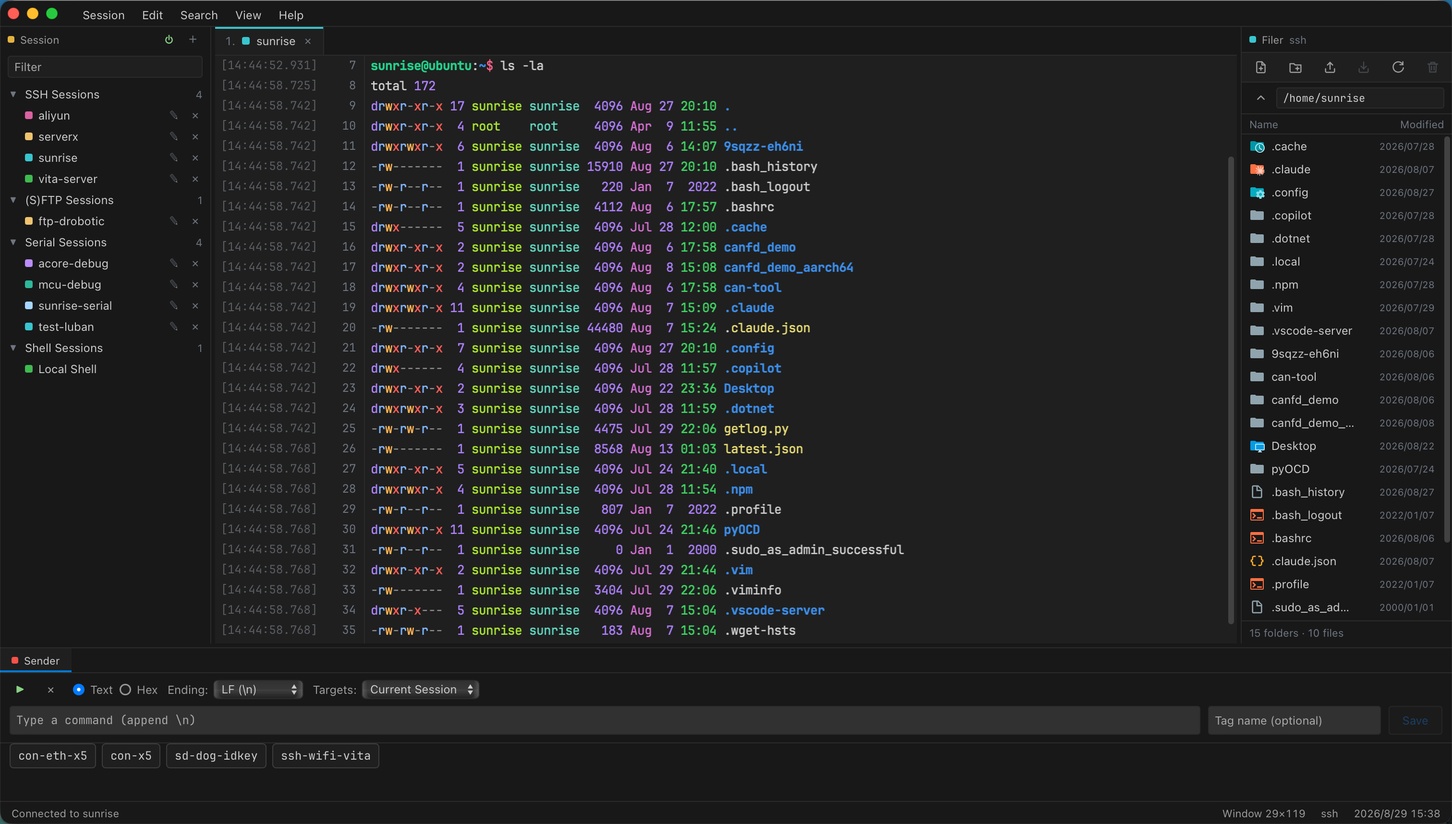
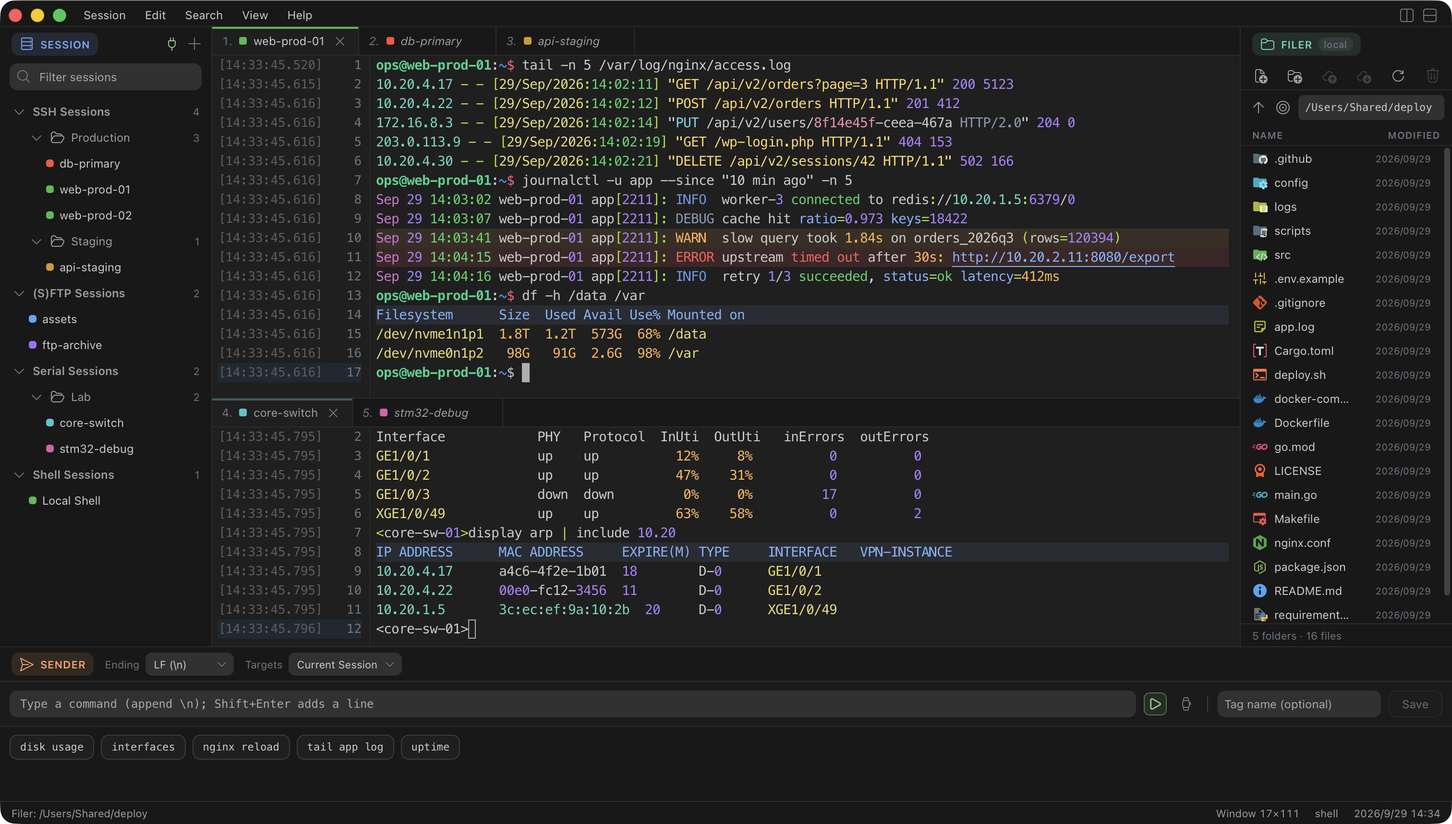
docs: slim the READMEs down to features and usage, refresh screenshots
The READMEs now cover what EdgeTerm does, how to install it, a short
getting-started and the shortcut table; behavior details moved out of
them. The dark / light screenshots show the default themes with split
panes, semantic coloring of logs and switch output, grouped sessions,
the Filer and saved Sender commands.

diff --git a/README.md b/README.md
@@ -7,127 +7,66 @@
 
 [English](README.md) | [简体中文](README.zh-CN.md)
 
-A small, lightweight, high-performance terminal, SSH, SFTP, FTP, and serial client, built with **Rust + Tauri**.
+A small, fast terminal, SSH, SFTP, FTP and serial client built with **Rust + Tauri**. Installers are about 4–5 MB.
 
-<img src="docs/screenshot-dark.png" alt="EdgeTerm dark theme" width="100%">
+<img src="docs/screenshot-dark.png" alt="EdgeTerm dark theme: split panes, colored log and switch output, Session tree, Filer and Sender" width="100%">
 
-<img src="docs/screenshot-light.png" alt="EdgeTerm light theme" width="100%">
-
-## Small and lightweight
-
-| Package (v0.4.1) | Download size |
-| --- | --- |
-| Windows x64 installer (`.exe`) | **3.9 MB** |
-| macOS Apple Silicon (`.dmg`) | **4.7 MB** |
-| Linux `.deb` (x64 / ARM64) | **5.3 MB** / **5.2 MB** |
+<img src="docs/screenshot-light.png" alt="EdgeTerm light theme: the same workspace" width="100%">
 
 ## Features
 
-**Session types**
+- **Sessions**: local shell, SSH, SFTP, FTP and serial port, saved in a grouped tree you can filter, duplicate and import from `~/.ssh/config`.
+- **SSH**: password, public key, ssh-agent and keyboard-interactive (MFA / one-time codes), jump hosts, and older network gear that only speaks legacy algorithms.
+- **Readable output**: a timestamp and line-number gutter, and semantic coloring of IPs, URLs, log levels, HTTP methods, paths, sizes and more.
+- **Split panes and tabs**: split right or down, drag tabs between panes, and see at a glance which background tab is busy or done.
+- **Filer**: browse over SFTP, FTP or the local disk, with drag and drop to and from your desktop.
+- **Sender**: saved commands and multi-line scripts, sent to one session or all of them, optionally on a timer.
+- **File transfer in the terminal**: ZMODEM (`rz` / `sz`) and XMODEM.
+- **Everyday details**: themes, fonts and cursor style, custom encodings and locale, session recording, Copy on Select, a warning before multi-line pastes, rebindable shortcuts, and export / import of all settings.
 
-| Type | Backend | Description |
-| --- | --- | --- |
-| Local shell | `portable-pty` | A real pseudoterminal with synchronized window resizing; the Shell field takes a command line with arguments, such as `wsl.exe -d Ubuntu` or `pwsh -NoLogo`. On macOS a bare shell starts as a login shell, the way Terminal.app starts it, so `~/.zprofile` and Homebrew's PATH are in place before `~/.zshrc` runs; a command line with arguments runs exactly as written |
-| SSH | `russh` + `russh-sftp` | Password, public-key, and ssh-agent authentication, followed by keyboard-interactive rounds where the server asks for a second factor (a one-time code, a push confirmation); jump hosts (ProxyJump) through another saved session, chained if needed; SFTP reuses the same connection with streaming file and folder transfers |
-| SFTP | `russh` + `russh-sftp` | A file-transfer-only session over SSH — same authentication and host-key policy, opened straight into the dual-pane file manager with no terminal |
-| FTP | `suppaftp` | Password or anonymous authentication; passive-mode browsing, UTF-8/GBK filename decoding, and streaming file and folder transfers in both directions |
-| Serial | `serialport` | Configurable baud rate, data bits, stop bits, parity, and flow control |
+## Install
 
-**Older SSH servers**
-
-Switches, routers, firewalls and other long-lived devices often run SSH servers that stop at algorithms modern clients no longer offer. EdgeTerm still connects to them: besides the NIST ECDH curves (`ecdh-sha2-nistp256/384/521`), it offers the SHA-1 key exchanges `diffie-hellman-group14-sha1`, `diffie-hellman-group-exchange-sha1` and `diffie-hellman-group1-sha1`, the `aes128/192/256-cbc` ciphers and the `hmac-sha1` MACs, with no setting to change. They come after every modern algorithm, so a server that supports anything better gets that, and because both sides' algorithm lists are signed by the server's host key, nobody in between can strip the better choices to force the old ones. A session that did need one shows **Legacy SSH** in the status bar; hover over it to see which server and which algorithms. A server that offers nothing EdgeTerm supports (only `ssh-dss` host keys, `3des-cbc` or `hmac-md5`, say) is refused with the list it offered.
-
-**Text encoding and locale**
-
-Terminal sessions are UTF-8 unless the session dialog's **Encoding** says otherwise: a server or device that talks GB18030 / GBK, Big5, Shift_JIS, EUC-JP, EUC-KR or a Windows / KOI8 code page has its output decoded for the terminal and typed input encoded for the far end, while ZMODEM and XMODEM transfers stay binary. What a shell prints for a non-ASCII file name is decided by *its* locale, not by the terminal — `$'\346\226\207'`-style escapes from `ls` mean the shell's locale is not UTF-8 — so a local shell started with no locale in its environment (every GUI application on macOS) is given a UTF-8 `LANG`, and the dialog's **Locale** field sets `LANG` explicitly: for an SSH session it is sent with the shell request and applied by servers whose `sshd_config` has `AcceptEnv LANG`.
-
-**Session recording**
-
-Any terminal session — shell, SSH or serial — can be recorded to a file: tick **Record this session's output to a file** in the session dialog (it is off unless you turn it on) and every connection of that session writes a new file, `<name>_<date>_<time>.log`, to the folder you choose or to *EdgeTerm Recordings* in your Documents (a portable copy uses `data/recordings`). The file is the raw output the terminal received, escape sequences included, between a header and a trailer line naming the session and the times, so `cat` replays it in a terminal; what you typed appears only as the far end echoed it, so a password entered without echo is not in it. While a recording runs the status bar shows **REC**; click it to open the folder. The file is written as output arrives and closes with the session. If it cannot be created the connection fails with the reason rather than running unrecorded, and if the disk fails later the session carries on and the status bar says the recording stopped.
-
-**Interface**
-- **Timestamp and line-number gutter** — WindTerm's most recognizable feature. Every output line includes `[HH:MM:SS.SSS]` and a cumulative line number, with the cursor line highlighted. Four display modes are available from the `Session` menu.
-- **Session** (left): saved connection profiles in a collapsible tree; double-click to connect. Right-click a heading or a group to create (nested) groups, rename or delete them; right-click a session to connect, edit, move it to another group, or delete it. The New Session dialog lets you choose which group a session is saved to.
-- **Filer** (right): a file browser that automatically switches to SFTP for SSH sessions, with file and folder upload, download, create-directory, and delete operations. Drag and drop works in both directions, anywhere on the panel: dropping files or folders from Finder / Explorer uploads them into the current remote directory, or copies them into the folder on screen when the Filer is showing local files; dragging an entry out of the window drops it on the desktop or in a file manager — a remote entry is copied down first, so hold the drag until it is ready. A drop the panel cannot take says why instead of doing nothing. Other terminal sessions browse the local filesystem. `⌘J` / `Ctrl+Shift+J` (also in the terminal's context menu and the Filer's locate button) jumps the Filer to the directory the shell is in: a local shell is asked through the OS, an SSH shell through the server (Linux hosts), and a shell that reports its directory with OSC 7 — fish does by default; bash and zsh with a one-line prompt hook — is answered everywhere, `sudo` and nested shells included.
-- **Sender** (bottom): send text with a chosen line ending (none / LF / CRLF) to the current session or to all open sessions at once. Text may span several lines (`Shift+Enter` adds one) and each line is sent in turn, waiting for the shell's prompt between them, so a saved multi-line script runs cleanly instead of arriving as typeahead. The clock button repeats a command on a timer — every N seconds, a set number of times or until stopped — for an inspection loop or to keep a session alive; it keeps running while the panel is hidden and stops from the strip. Saved commands are scoped — to one session, a Session panel group, a session kind (serial / SSH / shell) or everywhere — and the Sender lists the ones that apply to the active tab, most specific first.
-
-**Display settings**
-
-**View → Display Settings…** sets the interface and terminal font sizes, the family each uses, the cursor's shape (block, underline or bar) and whether it blinks, and how many lines of scrollback a session keeps. No fonts are bundled: leaving a family blank uses the platform's own stack, and each family field lists the fonts installed on this machine — fixed-pitch ones for the terminal, all of them for the interface — while accepting any name you type, so a private Nerd Font build works too. The icons prompt themes such as Powerlevel10k and Starship print show up without choosing anything: when a Nerd Font is installed, the terminal falls back to it for the glyphs its own font lacks. The window itself opens at the size it had when it was last closed, maximized again if it was.
-
-**Command suggestions**
-
-With **Edit → Command Suggestions** enabled, EdgeTerm remembers the commands you run in the terminal and shows matching history in a popup as you type. `↓` steps into the list, `Enter` / `Tab` accepts, `Esc` dismisses; while nothing in the popup is selected, every other key still reaches the shell. **Edit → Clear Command History…** clears the recorded history.
-
-**Tab activity**
-
-A background tab shows what is running in it and keeps a highlight afterwards until you visit it, so you can start something slow and switch away. Agentic CLIs — Claude Code, Codex, Gemini CLI, Aider and the like — are followed differently: their session lasts as long as you keep the tool open, so the tab reports the assistant's turns instead, running while it works and finished when it hands the terminal back.
-
-**Split panes**
-
-The terminal area splits the way VS Code's editor area does: every pane has its own tab strip, and the panes can be nested side by side and one above the other and resized on their dividers. **Split Right** / **Split Down** — on a tab's context menu, in **View**, on the buttons at the right end of the menu bar, or with `⌘\` / `Ctrl+Shift+\` — opens the session's profile again in a new pane beside it, the way a terminal split works, since one session cannot show in two places. To put an existing tab beside another, drag it: onto another pane's strip to file it there, onto the middle of a pane to join it, or onto a pane's edge to split that pane on that side. A pane whose last tab closes folds away. The tab context menu also closes the other tabs of the strip — **Close Others**, **Close to the Left**, **Close to the Right**, **Close All** — asking once for all the sessions still connected.
-
-**Data export and import**
-
-**Session → Export Data…** writes the saved sessions and their groups, the Sender's saved commands, and the display settings to a single `.edgeterm` file (plain JSON inside); **Session → Import Data…** accepts only `.edgeterm` files.
-
-**Session → Import OpenSSH Config…** (also on the SSH Sessions heading) reads an OpenSSH client configuration — `~/.ssh/config` by default — and turns its `Host` entries into saved SSH sessions in one step, resolving each the way `ssh` does: `HostName`, `Port`, `User`, `IdentityFile` and `Include`d files, with `Host *` defaults applied. A single-hop `ProxyJump` becomes a saved jump host; a multi-hop chain is not imported (the session is still saved, just without a jump host). The dialog lists every host with what it connects to and lets you pick which to import and which group to file them under; a host already saved is shown so importing it updates that session in place. Passwords are never in the file, so imported sessions ask for theirs on first connect.
-
-**ZMODEM and XMODEM transfers**
-
-Local shell, SSH, and serial terminals automatically detect ZMODEM sessions. Run `rz` in the terminal to choose and send one or more local files, or run `sz <file>` to choose where each incoming file is saved.
-
-XMODEM has no handshake to detect, so it is started from **Session → File Transfer**. Start the other end in the terminal first (`rx <file>`, `sx <file>`, a bootloader's `loadx`, …), then choose **Send via XMODEM…** or **Send via XMODEM-1K…** and pick the file, or **Receive via XMODEM…** and pick where to save it. Receiving accepts CRC and checksum blocks of 128 bytes or 1 KiB; sending uses CRC when the receiver asks for it and falls back to plain 128-byte checksum blocks otherwise. XMODEM carries no file size, so a received file keeps the sender's `^Z` padding at the end of its last block. **Cancel Transfer** in the same menu aborts either protocol.
-
-**Mouse copy / paste**
-
-On Windows and Linux a right click follows the console convention — it copies the selection if there is one and pastes otherwise — the way conhost, PuTTY and Xshell do. **Edit → Right Click** switches it to *Show Menu*: a context menu with Copy, Paste, Select All, Clear Buffer and Reveal Working Directory in Filer, with the word under the pointer selected first. macOS always uses the menu. Middle-click pastes on every platform. Programs that take over the mouse (vim, tmux with mouse support, htop) receive the clicks instead; on Windows / Linux hold `Shift` to bypass them.
-
-**Edit → Copy on Select** puts a selection on the clipboard as soon as the mouse button comes up, the way PuTTY, Xshell and X11 terminals do; it is on by default on Windows and Linux and off on macOS. While it is on, the *Copy or Paste* right click only pastes, as in PuTTY, since the selection is on the clipboard already. A Select All made from the keyboard or a menu is left alone.
-
-**Edit → Programs Can Set Clipboard** decides what happens when a program copies through the terminal with OSC 52 — tmux, vim / Neovim and TUI agents do, including over SSH. *Ask* (the default) confirms the first copy of each session and lets the rest of that session through; *Allow* never asks; *Deny* drops them. A program can never read the clipboard back.
-
-A paste that would submit more than one command — or a single line too long to have been read — is shown first, with the lines it holds, so a clipboard that turns out to be six commands does not run six commands on a production host. `Enter` pastes, `Esc` cancels, and **Edit → Warn Before Multi-line Paste** turns the check off.
-
-**Keyboard shortcuts**
-
-| macOS | Windows / Linux | Action |
-| --- | --- | --- |
-| `⌘N` | `Alt+N` | Open the new-session dialog |
-| `⌘W` | `Ctrl+Shift+W` | Close the current session (asks for confirmation while it is still connected) |
-| `⌘F` / `⌘G` | `Ctrl+Shift+F` / `Ctrl+Shift+G` | Search the terminal buffer / find next |
-| `⌘K` | `Alt+K` | Clear the screen |
-| `⌘J` | `Ctrl+Shift+J` | Reveal the shell's working directory in the Filer |
-| `⌘[` / `⌘]` | `Alt+[` / `Alt+]` | Switch to the previous / next tab of the pane |
-| `⌘\` / `⌘⇧\` | `Ctrl+Shift+\` / `Ctrl+Alt+\` | Split the pane: open the current session's profile again to the right / below |
-| `⌘⌥[` / `⌘⌥]` | `Ctrl+Alt+[` / `Ctrl+Alt+]` | Focus the previous / next pane |
-| `⌘1`–`⌘9` | `Alt+1`–`Alt+9` | Switch to tab N |
-| `⌘⌥←` / `⌘⌥→` / `⌘⌥↓` | `Ctrl+Alt+←` / `Ctrl+Alt+→` / `Ctrl+Alt+↓` | Show or hide Session / Filer / Sender |
-| `⌘C` / `⌘V` | `Ctrl+Shift+C` / `Ctrl+Shift+V` | Copy / paste inside the terminal |
-| `⌘A` | `Ctrl+Shift+A` | Select the whole terminal buffer |
-
-Every shortcut above can be rebound in **View → Keyboard Shortcuts…** — click a command's keys and press the combination you want, or clear it to leave the command unassigned — except the tab-number keys. Copy, paste and select all are in the table too, so `Ctrl+Insert` / `Shift+Insert` or plain `Ctrl+C` / `Ctrl+V` work for those used to them; a copy key that is plain `Ctrl+letter` still reaches the shell while nothing is selected, so `Ctrl+C` keeps interrupting. **Help → Restore Default Settings…** puts the whole table back.
-
-## Releases
+Download from [Releases](https://github.com/miskin-lee/EdgeTerm/releases):
 
 | Platform | Package |
 | --- | --- |
-| Windows x64 | NSIS installer (`.exe`) and portable `.zip` |
-| macOS Apple Silicon | `.dmg`, plus the `.app.tar.gz` bundle used by the in-app updater |
-| Linux x64 / ARM64 | `.AppImage`, `.deb` and `.rpm` |
+| Windows x64 | Installer (`.exe`) or portable `.zip` |
+| macOS Apple Silicon | `.dmg` |
+| Linux x64 / ARM64 | `.AppImage`, `.deb` or `.rpm` |
 
-Debian, Ubuntu and their derivatives take the `.deb`; Fedora, RHEL and the other RPM distributions take the `.rpm` — `sudo dnf install ./EdgeTerm-<version>-1.x86_64.rpm`. The RPM lists the libraries the binary links against, so `dnf` installs WebKitGTK 4.1 (`webkit2gtk4.1` and `javascriptcoregtk4.1` on Fedora) with it; a distribution that only ships the older WebKitGTK 4.0 cannot run EdgeTerm, and the AppImage is the way in there.
+- Builds are not notarized or Authenticode-signed, so the OS may warn on first launch.
+- The portable zip keeps all its data in the `data` folder next to `EdgeTerm.exe`. Saved passwords do not carry over to another machine.
+- The `.rpm` needs WebKitGTK 4.1 (Fedora has it). On older distributions, use the AppImage.
+- Installed copies update themselves (**Help → Check for Updates…**). The portable copy only tells you a new version is out.
 
-On a Wayland desktop whose display runs on NVIDIA's proprietary driver, the system WebKitGTK used by the `.deb` and `.rpm` can get the window disconnected by the compositor the moment it opens (`Gdk-Message: Error 71 (Protocol error)`; WebKit bug [324551](https://bugs.webkit.org/show_bug.cgi?id=324551)). EdgeTerm recognizes that setup at startup and sets `__NV_DISABLE_EXPLICIT_SYNC=1` for itself — `WEBKIT_DISABLE_DMABUF_RENDERER=1` under Hyprland — without passing it on to the shells it opens. If you set either variable yourself, or `WEBKIT_DISABLE_COMPOSITING_MODE` / `WEBKIT_DMABUF_RENDERER_FORCE_SHM`, EdgeTerm leaves the choice to you; that is also the way out when the detection misses your setup. `WEBKIT_DISABLE_DMABUF_RENDERER=1` works everywhere but gives up WebGL.
+## Getting started
 
-The Windows portable zip needs no installation: it ships a `data` folder next to `EdgeTerm.exe`, and while that folder exists every setting is stored inside it, so the whole folder can move between machines or live on a removable drive (saved passwords are encrypted with a machine-bound key and do not decrypt elsewhere; sessions and settings travel fine). The AppImage likewise runs in place on Linux without installation.
+1. **Session → New Session…** (`⌘N` / `Alt+N`) creates a session; double-click it in the Session panel to connect. Right-click a session to edit, duplicate, move or delete it.
+2. The **Filer** on the right follows the active tab. Drop files onto it to upload, drag entries out to download, or press `⌘J` / `Ctrl+Shift+J` to jump to the shell's working directory.
+3. The **Sender** at the bottom sends text to the current session or to all sessions. Save frequently used commands as tags.
+4. **Split Right / Split Down** is on the tab's context menu and in **View**. Drag a tab onto another pane to move it there.
+5. **Edit** holds the copy/paste behavior (right click, Copy on Select, OSC 52), and **View** holds the theme, fonts and **Keyboard Shortcuts…**.
 
-Installed copies check the latest Release on startup and can update in place; **Help → Check for Updates…** does the same on demand. A portable copy is not updated in place — it announces new versions and opens the download page instead.
+## Keyboard shortcuts
 
-Releases are not notarized on macOS or code-signed with Windows Authenticode; the macOS application uses ad hoc signing only, so the operating system may show a security warning on first install.
+| macOS | Windows / Linux | Action |
+| --- | --- | --- |
+| `⌘N` | `Alt+N` | New session |
+| `⌘W` | `Ctrl+Shift+W` | Close session |
+| `⌘F` / `⌘G` | `Ctrl+Shift+F` / `Ctrl+Shift+G` | Find / find next |
+| `⌘K` | `Alt+K` | Clear screen |
+| `⌘J` | `Ctrl+Shift+J` | Show the working directory in the Filer |
+| `⌘[` / `⌘]` | `Alt+[` / `Alt+]` | Previous / next tab |
+| `⌘1`–`⌘9` | `Alt+1`–`Alt+9` | Go to tab N |
+| `⌘\` / `⌘⇧\` | `Ctrl+Shift+\` / `Ctrl+Alt+\` | Split right / down |
+| `⌘⌥[` / `⌘⌥]` | `Ctrl+Alt+[` / `Ctrl+Alt+]` | Previous / next pane |
+| `⌘⌥←` / `⌘⌥→` / `⌘⌥↓` | `Ctrl+Alt+←` / `→` / `↓` | Toggle Session / Filer / Sender |
+| `⌘C` / `⌘V` / `⌘A` | `Ctrl+Shift+C` / `V` / `A` | Copy / paste / select all |
+
+All except the tab numbers can be changed in **View → Keyboard Shortcuts…**.
 
 ## License
 
-EdgeTerm is licensed under the [GNU General Public License v3.0](LICENSE). Derivative works that are distributed must be released under the same license with their full source code.
+EdgeTerm is licensed under the [GNU General Public License v3.0](LICENSE).
 
 The interface icons are [Codicons](https://github.com/microsoft/vscode-codicons) by Microsoft, used under the Creative Commons Attribution 4.0 license.

diff --git a/README.zh-CN.md b/README.zh-CN.md
@@ -7,111 +7,66 @@
 
 [English](README.md) | [简体中文](README.zh-CN.md)
 
-一个小巧、轻量、高性能的终端 / SSH / SFTP / FTP / 串口客户端，基于 **Rust + Tauri** 构建。
+小巧、快速的终端 / SSH / SFTP / FTP / 串口客户端，基于 **Rust + Tauri**，安装包约 4–5 MB。
 
-<img src="docs/screenshot-dark.png" alt="EdgeTerm 深色主题" width="100%">
+<img src="docs/screenshot-dark.png" alt="EdgeTerm 深色主题：分栏、着色的日志与交换机输出、会话树、Filer 与 Sender" width="100%">
 
-<img src="docs/screenshot-light.png" alt="EdgeTerm 浅色主题" width="100%">
-
-## 小巧轻量
-
-| 安装包（v0.4.1） | 下载体积 |
-| --- | --- |
-| Windows x64 安装程序（`.exe`） | **3.9 MB** |
-| macOS Apple Silicon（`.dmg`） | **4.7 MB** |
-| Linux `.deb`（x64 / ARM64） | **5.3 MB** / **5.2 MB** |
+<img src="docs/screenshot-light.png" alt="EdgeTerm 浅色主题：同一工作区" width="100%">
 
 ## 功能
 
-**会话类型**
+- **会话**：本地 Shell、SSH、SFTP、FTP、串口，分组树管理，可筛选、复制，也可从 `~/.ssh/config` 导入。
+- **SSH**：密码、公钥、ssh-agent、keyboard-interactive（MFA / 验证码）、跳板机，也能连只支持旧算法的网络设备。
+- **易读的输出**：时间戳与行号栏，IP、URL、日志级别、HTTP 方法、路径、容量等语义着色。
+- **分栏与标签**：向右 / 向下分栏，标签可在分栏间拖动，后台标签的运行 / 完成状态一眼可见。
+- **Filer**：通过 SFTP、FTP 或本地磁盘浏览文件，支持与桌面之间双向拖拽。
+- **Sender**：保存常用命令和多行脚本，发送到当前会话或全部会话，可定时重复。
+- **终端内文件传输**：ZMODEM（`rz` / `sz`）与 XMODEM。
+- **日常细节**：主题、字体、光标样式，自定义编码与 locale，会话录制，选中即复制，多行粘贴提醒，快捷键可改，全部设置可导出 / 导入。
 
-| 类型 | 后端实现 | 说明 |
-| --- | --- | --- |
-| 本地 Shell | `portable-pty` | 真正的伪终端，支持窗口尺寸同步；Shell 字段可填带参数的命令行，如 `wsl.exe -d Ubuntu`、`pwsh -NoLogo` |
-| SSH | `russh` + `russh-sftp` | 密码 / 公钥 / ssh-agent 认证，并支持服务端随后追加的 keyboard-interactive 二次验证（一次性验证码、推送确认等），SFTP 复用同一条连接，文件及文件夹流式传输 |
-| SFTP | `russh` + `russh-sftp` | 基于 SSH 的纯文件传输会话，认证与主机密钥策略同 SSH，无终端，直接进入双栏文件管理器 |
-| FTP | `suppaftp` | 密码或匿名认证，被动模式浏览，自动识别 UTF-8 / GBK 文件名，文件及文件夹双向流式传输 |
-| 串口 | `serialport` | 波特率、数据位、停止位、校验、流控可配 |
+## 安装
 
-**老旧 SSH 设备**
-
-交换机、路由器、防火墙这类长期服役的设备，SSH 服务端往往停留在新版客户端已不再提供的算法上。EdgeTerm 照样能连：除了 NIST ECDH 曲线（`ecdh-sha2-nistp256/384/521`），还提供 SHA-1 密钥交换 `diffie-hellman-group14-sha1`、`diffie-hellman-group-exchange-sha1`、`diffie-hellman-group1-sha1`，`aes128/192/256-cbc` 加密和 `hmac-sha1` 系列 MAC，无需任何设置。它们排在所有现代算法之后，服务器只要支持更好的就会用更好的；双方的算法列表都在服务器主机密钥的签名范围内，中间人也无法剥掉好的选项、逼迫降级到旧算法。确实用到了旧算法的会话，状态栏会显示 **Legacy SSH**，鼠标悬停可看到是哪台服务器、哪些算法。如果服务器提供的算法 EdgeTerm 一个都不支持（比如只有 `ssh-dss` 主机密钥、`3des-cbc` 或 `hmac-md5`），连接会失败，并列出服务器提供的算法。
-
-**界面**
-- **时间戳 + 行号侧栏** —— WindTerm 最有辨识度的特性，每一行输出都带 `[HH:MM:SS.SSS]` 与累计行号，光标行高亮。可在 `Session` 菜单下切换四种显示模式。
-- **Session**（左侧）：保存的连接配置以可折叠的树形展示，双击连接。右击类型标题或分组可新建（可嵌套的）分组、重命名或删除分组；右击会话可连接、编辑、移动到其他分组或删除；新建会话时也可直接选择保存到哪个分组
-- **Filer**（右侧）：文件浏览器。SSH 会话下自动切到 SFTP，可上传 / 下载文件和文件夹、新建目录、删除；其他终端会话下浏览本地文件系统。拖拽双向可用，面板任意位置都能放：从访达 / 资源管理器拖文件或文件夹进来，远程会话下上传到当前远程目录，本地会话下复制到当前显示的文件夹；把条目从窗口里拖到桌面或文件管理器即下载 —— 远程条目会先拷到本地，请按住不放等它准备好。收不下的拖放会说明原因，不会毫无反应
-- **Sender**（底部）：发送文本，可选行尾（无 / LF / CRLF），目标为当前会话或一次发给全部已打开的会话。文本可以多行（`Shift+Enter` 换行），逐行发送并在行间等待 Shell 提示符返回，保存的多行脚本会依次执行，而不是一股脑塞成预输入。时钟按钮按定时重复发送 —— 每 N 秒、发指定次数或一直发到停止 —— 可用于巡检循环或会话保活；面板隐藏时仍继续，从条上停止。保存的命令带作用域 —— 某个会话、Session 面板的某个分组、某类会话（串口 / SSH / Shell）或全部 —— Sender 只列出对当前标签页适用的命令，越具体的排越前
-
-**会话录制**
-
-任何终端会话（Shell、SSH、串口）都可以录制到文件：在会话对话框里勾选 **Record this session's output to a file**（默认关闭，只有手动勾选才会录），之后该会话每次连接都会在你选择的文件夹（未填时为「文稿」下的 *EdgeTerm Recordings*，portable 版为 `data/recordings`）新建一个 `<名称>_<日期>_<时间>.log`。文件内容是终端收到的原始输出（含转义序列），首尾各有一行写明会话与起止时间，用 `cat` 即可在终端里回放；你输入的内容只以对端回显的形式出现，不回显的密码不会被记录。录制进行中状态栏显示 **REC**，点击可打开所在文件夹。录制随输出实时写入、随会话关闭；建不了文件时连接会直接报错而不是悄悄不录，中途磁盘出错则会话照常继续，状态栏提示录制已停止。
-
-**显示设置**
-
-**View → Display Settings…** 可设置界面与终端的字号、各自使用的字体，以及每个会话保留的回滚行数。软件本身不打包字体：字体留空即使用平台自带的字体栈，输入框会列出本机实际安装的字体，同时允许手动填写任意名称，自编译的 Nerd Font 也能用。Powerlevel10k、Starship 等提示符主题用到的图标不必专门选字体：本机装有 Nerd Font 时，终端缺的字形会自动从它回退。窗口会按上次关闭时的大小打开（上次是最大化的就仍然最大化），不需要每次重新拖。
-
-**命令补全**
-
-开启 **Edit → Command Suggestions** 后，EdgeTerm 会记住在终端里执行过的命令，输入时弹窗列出历史匹配。`↓` 进入列表，`Enter` / `Tab` 采纳，`Esc` 关闭；弹窗尚未选中任何一项时，其余按键仍照常发给 Shell，**Edit → Clear Command History…** 可清空历史。
-
-**标签活动**
-
-后台标签会显示其中正在运行的内容，结束后保留高亮直到你切回去，方便跑长任务时先去忙别的。Claude Code、Codex、Gemini CLI、Aider 这类 AI 命令行工具则按另一套规则跟踪：它们的会话要一直开着，所以标签显示的是助手的每一轮——它在干活时显示运行中，把终端交还给你时显示已结束。
-
-**数据导出与导入**
-
-**Session → Export Data…** 把保存的会话及其分组、Sender 的常用命令和显示设置导出为一个 `.edgeterm` 文件（内容为 JSON）；**Session → Import Data…** 只接受 `.edgeterm` 文件。
-
-**Session → Import OpenSSH Config…**（SSH Sessions 标题上也有）读取 OpenSSH 客户端配置（默认 `~/.ssh/config`），一次把其中的 `Host` 条目变成保存的 SSH 会话，并按 `ssh` 的规则解析：`HostName`、`Port`、`User`、`IdentityFile` 以及 `Include` 的文件，`Host *` 的默认值也会应用。单跳 `ProxyJump` 会变成保存的跳板会话；多级跳板不导入（会话仍会保存，只是不带跳板）。对话框列出每个主机及其连接目标，可勾选要导入哪些、归到哪个分组；已保存过的主机会标出，导入即就地更新那个会话。配置文件里没有密码，导入的会话首次连接时会再询问。
-
-**ZMODEM 与 XMODEM 传输**
-
-本地 Shell、SSH 和串口终端会自动检测 ZMODEM 会话。在终端中执行 `rz` 后可选择一个或多个本地文件并发送；执行 `sz <文件>` 后可为每个接收文件选择保存位置。
-
-XMODEM 没有可供检测的握手，需要从 **Session → File Transfer** 菜单手动发起。先在终端里启动对端（`rx <文件>`、`sx <文件>`、Bootloader 的 `loadx` 等），再选择 **Send via XMODEM…** 或 **Send via XMODEM-1K…** 并挑选要发送的文件，或选择 **Receive via XMODEM…** 并指定保存位置。接收支持 CRC 与校验和两种校验以及 128 字节 / 1 KiB 两种块长；发送在对端请求 CRC 时使用 CRC，否则退回 128 字节校验和块。XMODEM 不传文件长度，接收到的文件末块会保留发送方填充的 `^Z`。同一菜单的 **Cancel Transfer** 可中止任一协议的传输。
-
-**鼠标复制 / 粘贴**
-
-Windows 和 Linux 下右键按控制台惯例来：有选区时复制、没有选区时粘贴，和 conhost、PuTTY、Xshell 一致。想要菜单可在 **Edit → Right Click** 改为 *Show Menu*——弹出 Copy / Paste / Select All / Clear Buffer / Reveal Working Directory in Filer，并先选中指针所在的单词。macOS 始终使用菜单。中键在所有平台都是粘贴。vim、tmux（开启鼠标）、htop 等接管了鼠标的程序会收到这些点击；Windows / Linux 下按住 `Shift` 可绕过它们。
-
-**Edit → Copy on Select** 打开后，鼠标松开的那一刻选区就进了剪贴板，和 PuTTY、Xshell、X11 终端的习惯一致；Windows 和 Linux 默认打开，macOS 默认关闭。打开时 *Copy or Paste* 右键只负责粘贴（选区已经在剪贴板里了），和 PuTTY 一样；键盘或菜单里的 Select All 不会触发它。
-
-**Edit → Programs Can Set Clipboard** 决定终端里的程序用 OSC 52 复制时怎么办——tmux、vim / Neovim 和各种 TUI agent 都这样复制，SSH 远端也一样。*Ask*（默认）在每个会话第一次复制时询问，允许后该会话不再问；*Allow* 从不询问；*Deny* 一律丢弃。程序永远读不到剪贴板的内容。
-
-粘贴内容不止一行（或者是一行长到根本没看完的文本）时，会先把要粘的内容列出来确认：剪贴板里万一是六条命令，就不会直接在生产机上跑掉六条。`Enter` 粘贴、`Esc` 取消，**Edit → Warn Before Multi-line Paste** 可以关掉这个提醒。
-
-**快捷键**
-
-| macOS | Windows / Linux | 动作 |
-| --- | --- | --- |
-| `⌘N` | `Alt+N` | 新建会话对话框 |
-| `⌘W` | `Ctrl+Shift+W` | 关闭当前会话（会话仍在连接中时需二次确认） |
-| `⌘F` / `⌘G` | `Ctrl+Shift+F` / `Ctrl+Shift+G` | 缓冲区内查找 / 下一个匹配 |
-| `⌘K` | `Alt+K` | 清屏 |
-| `⌘[` / `⌘]` | `Alt+[` / `Alt+]` | 切换到上一个 / 下一个已打开会话 |
-| `⌘1`–`⌘9` | `Alt+1`–`Alt+9` | 切换到第 N 个标签 |
-| `⌘⌥←` / `⌘⌥→` / `⌘⌥↓` | `Ctrl+Alt+←` / `Ctrl+Alt+→` / `Ctrl+Alt+↓` | 显示或隐藏 Session / Filer / Sender |
-| `⌘C` / `⌘V` | `Ctrl+Shift+C` / `Ctrl+Shift+V` | 复制 / 粘贴（终端内） |
-| `⌘A` | `Ctrl+Shift+A` | 全选终端缓冲区 |
-
-上表中的快捷键都可以在 **View → Keyboard Shortcuts…** 里重新绑定：点击某个命令的按键，再按下想要的组合即可，也可以清空让该命令不绑定任何按键；只有标签数字键例外。复制 / 粘贴 / 全选也在表里，习惯 `Ctrl+Insert` / `Shift+Insert` 或直接用 `Ctrl+C` / `Ctrl+V` 的人可以照旧；复制键若是单纯的 `Ctrl+字母`，没有选区时仍会发给 Shell，所以 `Ctrl+C` 照样能中断程序。**Help → Restore Default Settings…** 会把整张表恢复为缺省值。
-
-## 发布
+从 [Releases](https://github.com/miskin-lee/EdgeTerm/releases) 下载：
 
 | 平台 | 安装包 |
 | --- | --- |
-| Windows x64 | NSIS 安装程序（`.exe`） |
-| macOS Apple Silicon | `.dmg`，以及应用内更新使用的 `.app.tar.gz` |
-| Linux x64 / ARM64 | `.AppImage`、`.deb` 和 `.rpm` |
+| Windows x64 | 安装程序（`.exe`）或便携版 `.zip` |
+| macOS Apple Silicon | `.dmg` |
+| Linux x64 / ARM64 | `.AppImage`、`.deb` 或 `.rpm` |
 
-Debian、Ubuntu 及其衍生版用 `.deb`；Fedora、RHEL 等 RPM 发行版用 `.rpm`，`sudo dnf install ./EdgeTerm-<版本>-1.x86_64.rpm` 即可。RPM 里写明了程序链接的库，缺少 WebKitGTK 4.1 时 `dnf` 会一并装上（Fedora 上是 `webkit2gtk4.1` 和 `javascriptcoregtk4.1`）；只提供 WebKitGTK 4.0 的发行版无法运行 EdgeTerm，那里请用 AppImage。
+- 未做 macOS 公证和 Windows Authenticode 签名，首次打开时系统可能会提示风险。
+- 便携版的数据都存在 `EdgeTerm.exe` 旁的 `data` 文件夹里；换机器后保存的密码不会带过去。
+- `.rpm` 需要 WebKitGTK 4.1（Fedora 有），较老的发行版请用 AppImage。
+- 安装版会自动更新（**Help → Check for Updates…**），便携版只提示有新版本。
 
-已安装的版本启动时会检查最新 Release 并可在应用内直接更新；也可以随时用 **Help → Check for Updates…** 手动检查。
+## 快速上手
 
-Release 不做 macOS 公证和 Windows Authenticode 代码签名，macOS 应用只使用 ad-hoc 签名，首次安装时系统仍可能弹出安全提示。
+1. **Session → New Session…**（`⌘N` / `Alt+N`）新建会话，在 Session 面板里双击连接；右键会话可编辑、复制、移动或删除。
+2. 右侧 **Filer** 跟随当前标签：把文件拖进去即上传，拖出来即下载；`⌘J` / `Ctrl+Shift+J` 跳到 shell 的当前目录。
+3. 底部 **Sender** 把文本发到当前会话或全部会话，常用命令可存成标签。
+4. 标签右键菜单和 **View** 里有 **Split Right / Split Down**，把标签拖到别的分栏即可移过去。
+5. **Edit** 里是复制粘贴相关设置（右键行为、选中即复制、OSC 52），**View** 里是主题、字体和 **Keyboard Shortcuts…**。
 
+## 快捷键
+
+| macOS | Windows / Linux | 作用 |
+| --- | --- | --- |
+| `⌘N` | `Alt+N` | 新建会话 |
+| `⌘W` | `Ctrl+Shift+W` | 关闭会话 |
+| `⌘F` / `⌘G` | `Ctrl+Shift+F` / `Ctrl+Shift+G` | 查找 / 查找下一个 |
+| `⌘K` | `Alt+K` | 清屏 |
+| `⌘J` | `Ctrl+Shift+J` | 在 Filer 中显示当前目录 |
+| `⌘[` / `⌘]` | `Alt+[` / `Alt+]` | 上一个 / 下一个标签 |
+| `⌘1`–`⌘9` | `Alt+1`–`Alt+9` | 切到第 N 个标签 |
+| `⌘\` / `⌘⇧\` | `Ctrl+Shift+\` / `Ctrl+Alt+\` | 向右 / 向下分栏 |
+| `⌘⌥[` / `⌘⌥]` | `Ctrl+Alt+[` / `Ctrl+Alt+]` | 上一个 / 下一个分栏 |
+| `⌘⌥←` / `⌘⌥→` / `⌘⌥↓` | `Ctrl+Alt+←` / `→` / `↓` | 显示 / 隐藏 Session、Filer、Sender |
+| `⌘C` / `⌘V` / `⌘A` | `Ctrl+Shift+C` / `V` / `A` | 复制 / 粘贴 / 全选 |
+
+除标签序号键外，都可在 **View → Keyboard Shortcuts…** 中修改。
 
 ## 许可证
 
-EdgeTerm 以 [GNU General Public License v3.0](LICENSE) 授权。分发的衍生作品必须以相同许可证发布并提供完整源码。
+EdgeTerm 采用 [GNU General Public License v3.0](LICENSE) 授权。
+
+界面图标来自 Microsoft 的 [Codicons](https://github.com/microsoft/vscode-codicons)，依据 Creative Commons Attribution 4.0 许可使用。
